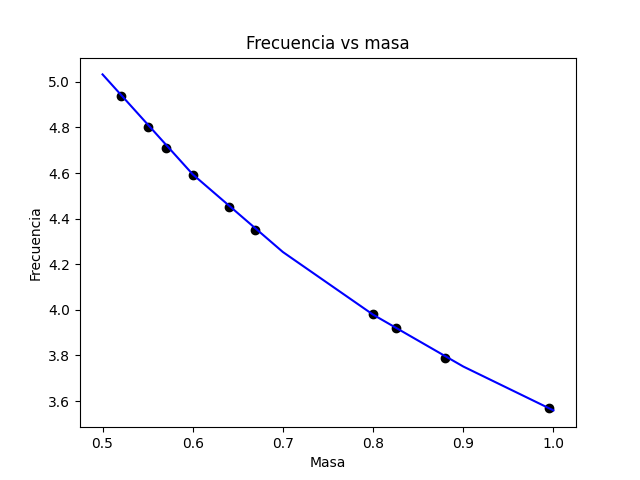
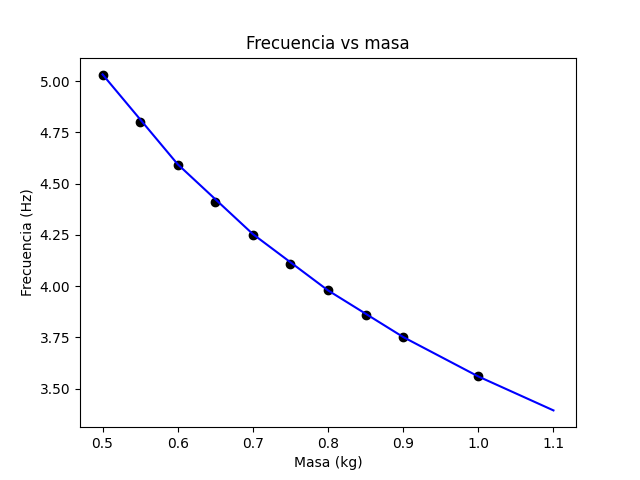
Finishhh Pythonn

diff --git a/funciones.py b/funciones.py
@@ -3,6 +3,10 @@ import matplotlib.pyplot as plt
 
 
 def tabulacion(base_datos, esp=2):
+    """
+    Función para imprimir la base de datos de las masas y las frecuencias
+    """
+
     # Definimos listas para añadir la cantidad de caracteres de
     # todos los elementos y de cada columna
     lis_max = [esp for x in range(len(base_datos[0]))]
@@ -25,6 +29,10 @@ def tabulacion(base_datos, esp=2):
 
 
 def read(nombre):
+    """
+    Función para leer los datos de un archivo de texto
+    """
+
     with open(nombre, "r") as document:
         data = document.read().split("\n")
         for x in range(len(data)):
@@ -34,30 +42,45 @@ def read(nombre):
 
 
 def f(m):
+    """
+    Función frecuencia sqrt(k/m)/2*pi
+    """
+
     if m == 0:
         return 15
-    func = np.sqrt(500 / m) / (2 * np.pi)
+
+    k = 500
+
+    func = np.sqrt(k / m) / (2 * np.pi)
     return func
 
 
 def scatter(data):
+    """
+    Función para plotear la gráfica frecuencia vs masa
+    Extrae los datos de la masa y la frecuencia y los plotea con matplotlib
+    Establece la recta de ajuste f(m) - Función f(m)
+    Guarda la gráfica con el nombre "gráfica.png"
+    """
+
     p_x = []
     p_y = []
 
+    # Ingresando los datos del archivo de texto
     for i in range(1, len(data)):
         p_x.append(float(data[i][0]))
         p_y.append(float(data[i][2]))
 
-    # Ajuste
-    x = np.arange(0.5, 1.01, 0.1)
+    # Función de ajuste
+    x = np.arange(min(p_x), max(p_x)+0.1, 0.1)
     y = [f(i) for i in x]
     plt.plot(x, y, color="b")
 
     # Datos dispersos
     plt.scatter(p_x, p_y, color="black")
     plt.title("Frecuencia vs masa")
-    plt.xlabel("Masa")
-    plt.ylabel("Frecuencia")
+    plt.xlabel("Masa (kg)")
+    plt.ylabel("Frecuencia (Hz)")
 
     # Guardar la gráfica
     plt.savefig("grafica.png")

diff --git a/osciladorArmonico.py b/osciladorArmonico.py
@@ -52,7 +52,15 @@ with open("datos.txt", "w") as dataFile:
 print("Datos guardados con exito!\n")
 print(tabulacion(data))
 
+# Ajuste
+print("Los parámetros del ajuste fueron:")
+print("Eje x: Masa (kg)")
+print("Eje y: Frecuencia (Hz)")
+print()
+print("El tipo de ajuste utilizado corresponde a la función de la frecuencia:")
+print("frecuencia = w/2*pi")
+print("Siendo la frecuencia angular (w) = Constante de resorte (k) / masas del oscilador (m)")
+
+
 # Mostrando la gráfica y descargando la imagen
 scatter(data)
-
-# El ajuste utilizado fue:
